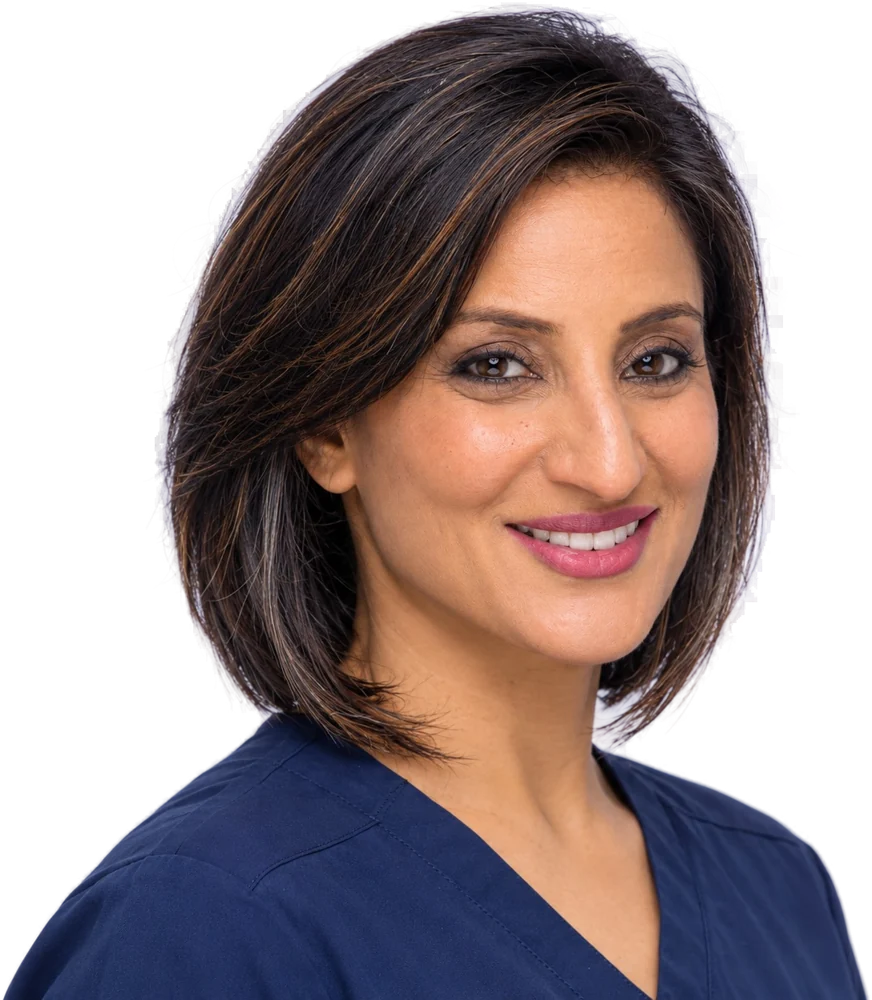
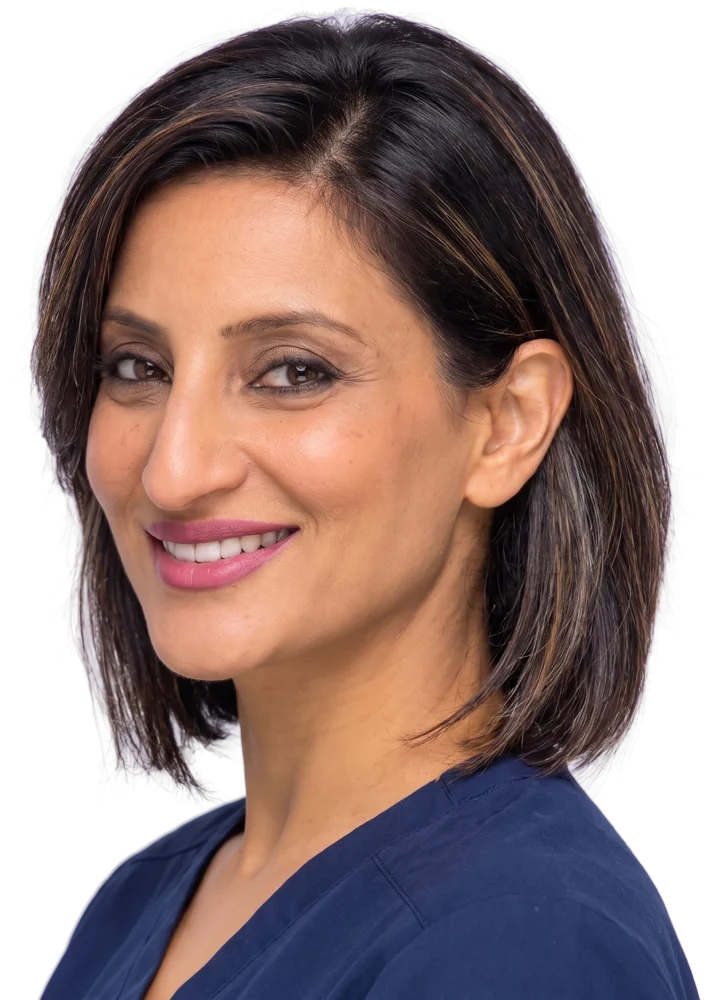
Hero: new portrait turned towards the text
Claude-Session: https://claude.ai/code/session_01GP5n9x6Tz3VvNfN4938gB4

diff --git a/index.html b/index.html
@@ -46,7 +46,7 @@
 </div>
     </div>
     <div class="hero-right">
-      <figure class="cutout"><span class="halo" aria-hidden="true"></span><img src="assets/img/rishi-cutout.webp" alt="Your therapist at Rishya Beauty Lounge" width="872" height="1000" fetchpriority="high"></figure>
+      <figure class="cutout"><span class="halo" aria-hidden="true"></span><img src="assets/img/rishi-cutout.webp?v=2" alt="Your therapist at Rishya Beauty Lounge" width="710" height="1000" fetchpriority="high"></figure>
     </div>
   </div>
 </section>

diff --git a/assets/styles.css b/assets/styles.css
@@ -299,3 +299,4 @@ section{padding:64px 0}
   .hero-left .actions{justify-content:flex-start}
 }
 @media (min-width:1024px){.hero-left .actions{max-width:none;flex-wrap:nowrap}}
+@media (min-width:1024px){.cutout{width:min(100%,500px)}}
